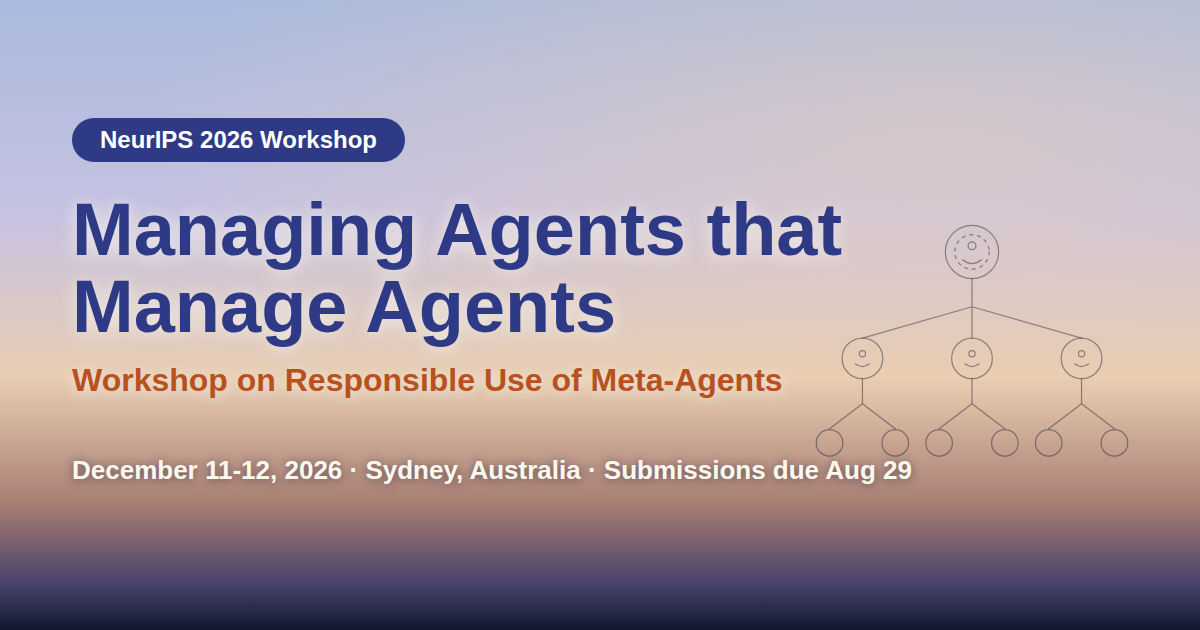
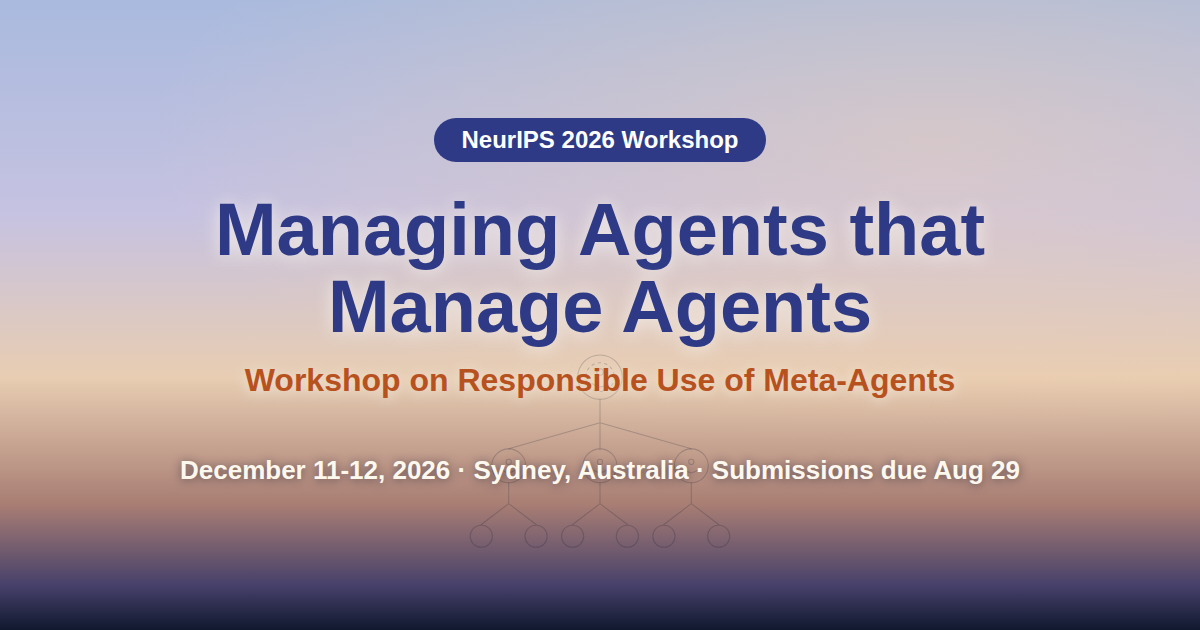
Center the hero text block
Center the badge, title, tagline, pitch, meta row, CTAs, and deadline
near the top of the hero on all sizes, tuck the placeholder constellation
into the bottom-right dusk band as light strokes, and update the social
card and hero-art brief to match (calm top for the centered text, subjects
along the lower third).

Claude-Session: https://claude.ai/code/session_01XZiAi6QxFJsMB8CFZCAaB3

diff --git a/index.html b/index.html
@@ -54,17 +54,17 @@
     }
     .hero-placeholder-art {
       position: absolute; z-index: 1;
-      right: 4%; bottom: 16%;
-      width: min(36vw, 470px); height: auto;
-      color: rgba(16, 24, 46, 0.42);
+      right: 5%; bottom: 4%;
+      width: min(24vw, 320px); height: auto;
+      color: rgba(233, 226, 244, 0.34);
       pointer-events: none;
     }
     .hero-inner {
-      position: relative; z-index: 2; max-width: 1180px; margin: 0 auto; padding: 0 28px;
-      height: 100%; display: flex; flex-direction: column; justify-content: center;
-      align-items: flex-start; text-align: left;
+      position: relative; z-index: 2; max-width: 1180px; margin: 0 auto; padding: 12vh 28px 0; padding-top: 12svh;
+      height: 100%; display: flex; flex-direction: column; justify-content: flex-start;
+      align-items: center; text-align: center;
     }
-    .h-card { max-width: 660px; margin-bottom: 11vh; }
+    .h-card { max-width: 780px; }
     .h-chip {
       display: inline-block; font-family: var(--disp); font-weight: 600; font-size: 0.92rem;
       letter-spacing: 0.04em; background: var(--indigo); color: #fff;
@@ -81,10 +81,10 @@
     }
     .h-lede {
       font-size: 1.12rem; color: #2c3042; font-weight: 500; max-width: 590px;
-      text-shadow: 0 1px 12px rgba(246, 243, 236, 0.8); margin: 0 0 28px;
+      text-shadow: 0 1px 12px rgba(246, 243, 236, 0.8); margin: 0 auto 28px;
     }
     .h-meta {
-      display: flex; flex-wrap: wrap; align-items: center; gap: 10px 18px;
+      display: flex; flex-wrap: wrap; align-items: center; justify-content: center; gap: 10px 18px;
       font-weight: 600; font-size: 1rem; margin: 0 0 26px;
     }
     .h-meta span { display: inline-flex; align-items: center; gap: 9px; color: #fdf8ee; text-shadow: 0 1px 10px rgba(16, 24, 46, 0.55); }
@@ -92,7 +92,7 @@
     .h-actions { margin-bottom: 16px; }
     .btn {
       display: inline-block; font-family: var(--disp); font-weight: 600; font-size: 1.05rem;
-      padding: 13px 32px; border-radius: 999px; margin: 0 12px 10px 0; transition: transform .14s ease;
+      padding: 13px 32px; border-radius: 999px; margin: 0 6px 10px; transition: transform .14s ease;
     }
     .btn:hover { transform: scale(1.05); text-decoration: none; }
     .btn-e { background: var(--ember); color: #fff; box-shadow: 0 5px 0 #8a3d15; }
@@ -114,13 +114,11 @@
         content: ""; position: absolute; inset: 0; z-index: 1;
         background: linear-gradient(180deg, rgba(16,24,46,0.52) 0%, rgba(16,24,46,0.38) 45%, rgba(16,24,46,0.66) 100%);
       }
-      .hero-placeholder-art { right: 50%; transform: translateX(50%); bottom: 6%; width: 68vw; color: rgba(246,243,236,0.3); }
-      .hero-inner { align-items: center; text-align: center; }
+      .hero-placeholder-art { right: 4%; bottom: 2%; width: 46vw; color: rgba(246,243,236,0.2); }
+      .hero-inner { padding-top: 0; }
       .hero h1 { color: #f3efe4; text-shadow: 0 2px 16px rgba(16, 24, 46, 0.85); }
       .h-sub { color: var(--gold); text-shadow: 0 2px 12px rgba(16, 24, 46, 0.85); }
       .h-lede { color: #e6e2ee; text-shadow: 0 1px 10px rgba(16, 24, 46, 0.7); }
-      .h-meta { justify-content: center; }
-      .btn { margin: 0 6px 10px; }
     }
 
     section { padding: 60px 0; }

diff --git a/assets/social-card-src.html b/assets/social-card-src.html
@@ -12,20 +12,22 @@
     background:
       radial-gradient(120% 90% at 78% 22%, rgba(255,213,166,0.38) 0%, rgba(255,213,166,0) 55%),
       linear-gradient(180deg, #a9bade 0%, #c6c2e1 34%, #e8cdb2 60%, #a97e74 80%, #46406a 93%, #10182e 100%);
-    display: flex; flex-direction: column; justify-content: center; padding: 0 72px;
+    display: flex; flex-direction: column; justify-content: center; align-items: center;
+    text-align: center; padding: 0 72px;
     font-family: 'Inter', sans-serif;
   }
   .chip {
-    align-self: flex-start; font-family: 'Space Grotesk', sans-serif; font-weight: 600; font-size: 24px;
+    font-family: 'Space Grotesk', sans-serif; font-weight: 600; font-size: 24px;
     background: #2e3a86; color: #fff; padding: 8px 28px; border-radius: 999px; margin-bottom: 30px;
   }
   h1 {
     font-family: 'Space Grotesk', sans-serif; font-weight: 700; font-size: 74px; line-height: 1.04;
-    color: #2e3a86; margin: 0 0 16px; text-shadow: 0 2px 18px rgba(246,243,236,0.9); max-width: 820px;
+    color: #2e3a86; margin: 0 0 16px; text-shadow: 0 2px 18px rgba(246,243,236,0.9); max-width: 900px;
   }
   .sub { font-family: 'Space Grotesk', sans-serif; font-weight: 600; font-size: 32px; color: #b7521e; margin: 0 0 30px; text-shadow: 0 2px 14px rgba(246,243,236,0.85); }
   .meta { font-weight: 600; font-size: 26px; color: #fdf8ee; text-shadow: 0 1px 10px rgba(16,24,46,0.55); }
-  svg.art { position: absolute; right: 48px; bottom: 96px; width: 360px; color: rgba(16,24,46,0.42); }
+  svg.art { position: absolute; left: 50%; transform: translateX(-50%); bottom: 18px; width: 300px; color: rgba(16,24,46,0.2); }
+  .chip, h1, .sub, .meta { position: relative; z-index: 2; }
 </style>
 </head>
 <body>

diff --git a/HERO-ART-BRIEF.md b/HERO-ART-BRIEF.md
@@ -12,9 +12,11 @@ the page's first dark section.
 2. **No text anywhere in the image.** No letters, signage, numbers, or
    watermarks. All type is overlaid in HTML.
 3. **No decorative frame or border.**
-4. **Subjects grouped in the right ~30%** of the frame.
-5. **Left ~55% calm and empty** (open sky/water), quiet enough for dark
-   display text at large sizes.
+4. **Subjects grouped in the lower third**, centered or slightly right,
+   sitting just above the dark convergence zone. (The page centers its
+   hero text near the top, so the composition is calm-top, not calm-left.)
+5. **Top ~55% calm and empty** (open sky), quiet enough for dark display
+   text at large sizes, centered.
 6. **Bottom quarter darkens to converge on one flat hex color across the
    entire bottom edge.** The next page section is set to that exact color
    (currently `#10182e`), so the image hands off invisibly.
@@ -22,28 +24,29 @@ the page's first dark section.
 ## Scene direction (adapt freely within the constraints)
 
 Dusk over Sydney Harbour seen from the water, painterly and warm, no
-photorealism. Left: open twilight sky and calm water. Right: a friendly
-oversized robot kneeling at the shoreline, adjusting or guiding a small
-group of smaller robots (agents managing agents), city skyline with Sydney
-Tower behind them. Warm amber highlights against deep indigo dusk; the
-palette should sit comfortably with indigo `#2e3a86`, ember `#b7521e`,
-gold `#e3a75c`, and night `#10182e`.
+photorealism. Top half: open twilight sky, calm and empty. Lower third: a
+friendly oversized robot kneeling at the shoreline, adjusting or guiding a
+small group of smaller robots (agents managing agents), city skyline with
+Sydney Tower behind them, centered or drifting slightly right. Warm amber
+highlights against deep indigo dusk; the palette should sit comfortably
+with indigo `#2e3a86`, ember `#b7521e`, gold `#e3a75c`, and night
+`#10182e`.
 
 ## Prompt to give the image model
 
 > A wide painterly digital illustration at 1312 x 816 (landscape, 16:10),
-> dusk over Sydney Harbour viewed from the water. The left 55% of the frame
+> dusk over Sydney Harbour viewed from the water. The top 55% of the frame
 > is calm and empty: soft gradient twilight sky in muted periwinkle and
-> apricot, still open water, no objects, no clouds with hard edges. In the
-> right 30%: a friendly rounded giant robot kneels at the shoreline gently
-> guiding three small robots, silhouetted city skyline with Sydney Tower
-> behind them, warm amber rim lighting, deep indigo shadows. The bottom
-> quarter of the image darkens smoothly until the entire bottom edge is one
-> flat uniform color, exactly #10182e, with no visible detail at the bottom
-> edge. Absolutely no text, letters, numbers, signage, logos, watermarks,
-> or decorative frame anywhere in the image. Muted warm palette: indigo,
-> ember orange, soft gold. Storybook concept-art style, clean shapes, calm
-> mood.
+> apricot, no objects, no clouds with hard edges. Along the lower third,
+> centered and drifting slightly right: a friendly rounded giant robot
+> kneels at the shoreline gently guiding three small robots, silhouetted
+> city skyline with Sydney Tower behind them, warm amber rim lighting,
+> deep indigo shadows. The bottom quarter of the image darkens smoothly
+> until the entire bottom edge is one flat uniform color, exactly #10182e,
+> with no visible detail at the bottom edge. Absolutely no text, letters,
+> numbers, signage, logos, watermarks, or decorative frame anywhere in the
+> image. Muted warm palette: indigo, ember orange, soft gold. Storybook
+> concept-art style, clean shapes, calm mood.
 
 Expect 3 to 5 generations. Reject results that fix one requirement but
 drift on another; re-state every constraint on each iteration.
